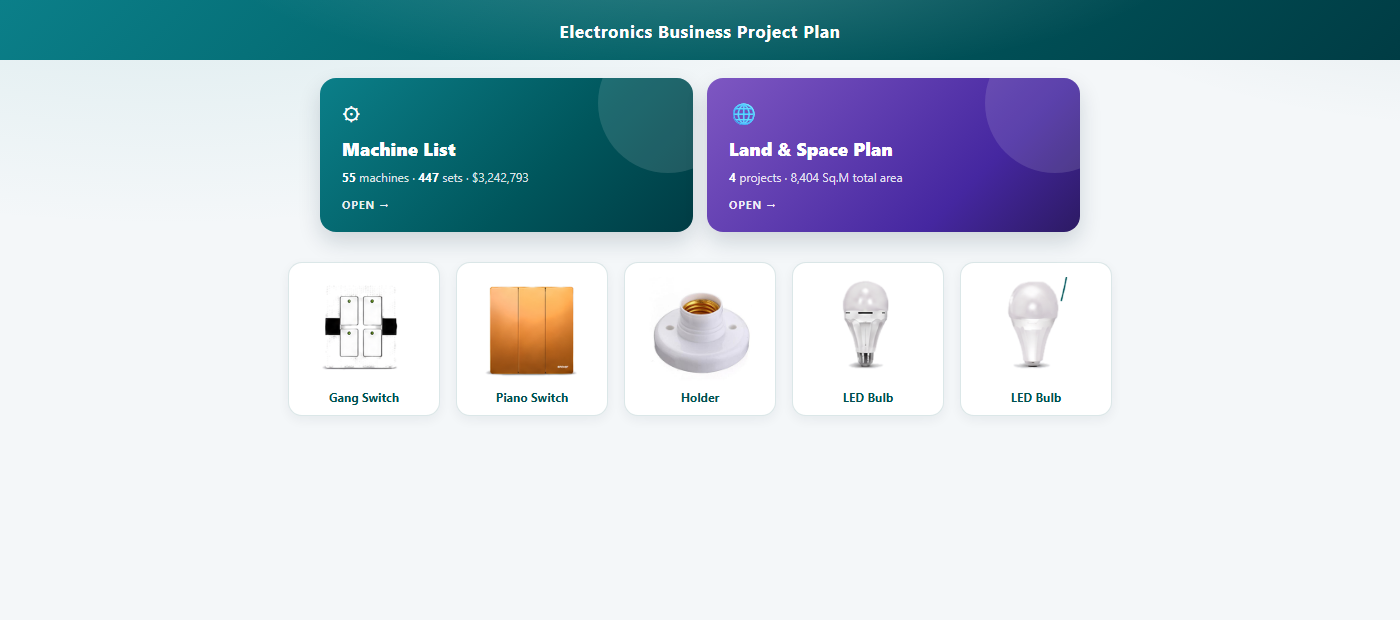
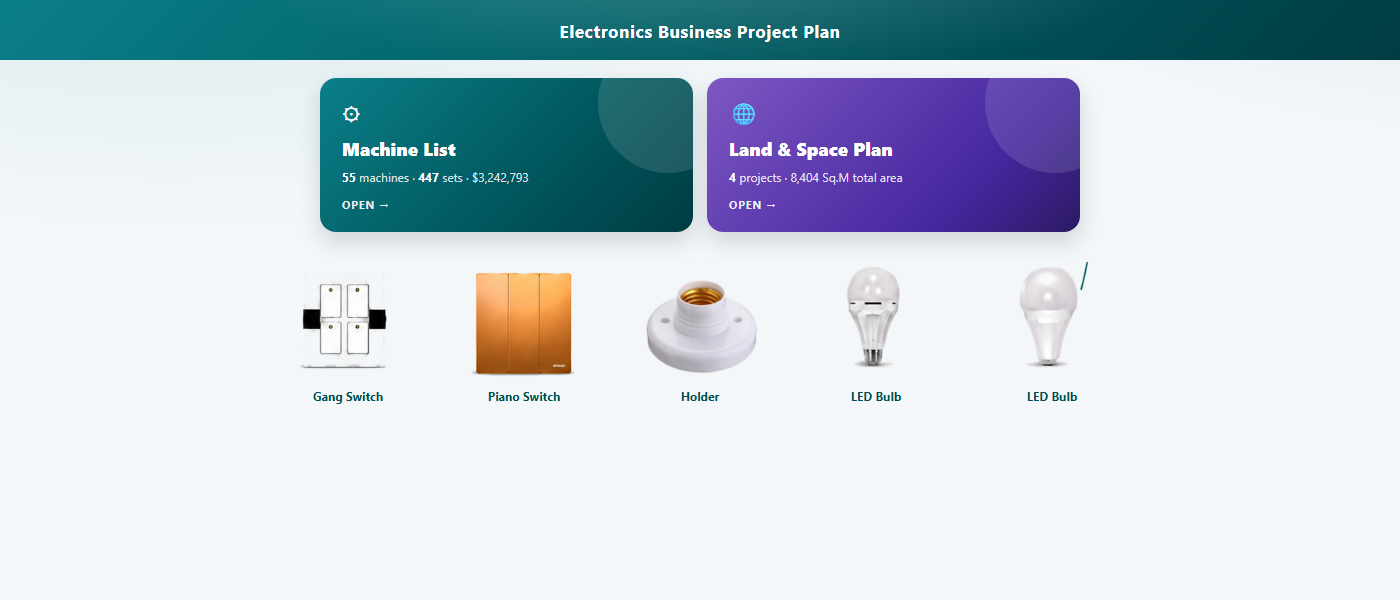
Product images transparent (no cards)

diff --git a/index.html b/index.html
@@ -30,10 +30,10 @@ body{background:radial-gradient(1200px 480px at 12% -10%, rgba(42,154,160,.13), 
 .back-btn{display:inline-block;margin:2px 0 16px;padding:10px 22px;background:#fff;color:#00565c;border:1px solid rgba(0,86,92,.3);text-decoration:none;border-radius:999px;font-size:13px;font-weight:700;cursor:pointer;transition:all .2s;box-shadow:0 2px 6px rgba(13,40,58,.06)}
 .back-btn:hover{background:#00565c;color:#fff;border-color:#00565c;box-shadow:0 6px 16px rgba(0,86,92,.24)}
 
-.prod-gallery{display:flex;justify-content:center;gap:16px;flex-wrap:wrap;margin-top:30px}
-.prod{background:#fff;border:1px solid rgba(0,86,92,.14);border-radius:14px;padding:14px 10px 10px;width:152px;text-align:center;box-shadow:0 4px 12px rgba(13,40,58,.06);transition:all .2s}
-.prod:hover{transform:translateY(-3px);box-shadow:0 12px 22px rgba(0,86,92,.14)}
-.prod img{width:100%;height:104px;object-fit:contain;display:block;margin-bottom:8px}
+.prod-gallery{display:flex;justify-content:center;gap:26px;flex-wrap:wrap;margin-top:30px}
+.prod{width:150px;text-align:center;background:transparent;transition:all .2s}
+.prod:hover{transform:translateY(-4px)}
+.prod img{width:100%;height:120px;object-fit:contain;display:block;margin-bottom:6px;background:transparent}
 .prod div{font-size:12px;font-weight:700;color:#005151}
 .sec-cards{display:grid;grid-template-columns:repeat(auto-fit,minmax(170px,1fr));gap:14px;margin-bottom:16px}
 .seccard{background:#fff;border:2px solid rgba(0,86,92,.18);border-radius:16px;padding:16px 18px;cursor:pointer;transition:all .2s;position:relative;overflow:hidden;box-shadow:0 4px 12px rgba(13,40,58,.06)}
